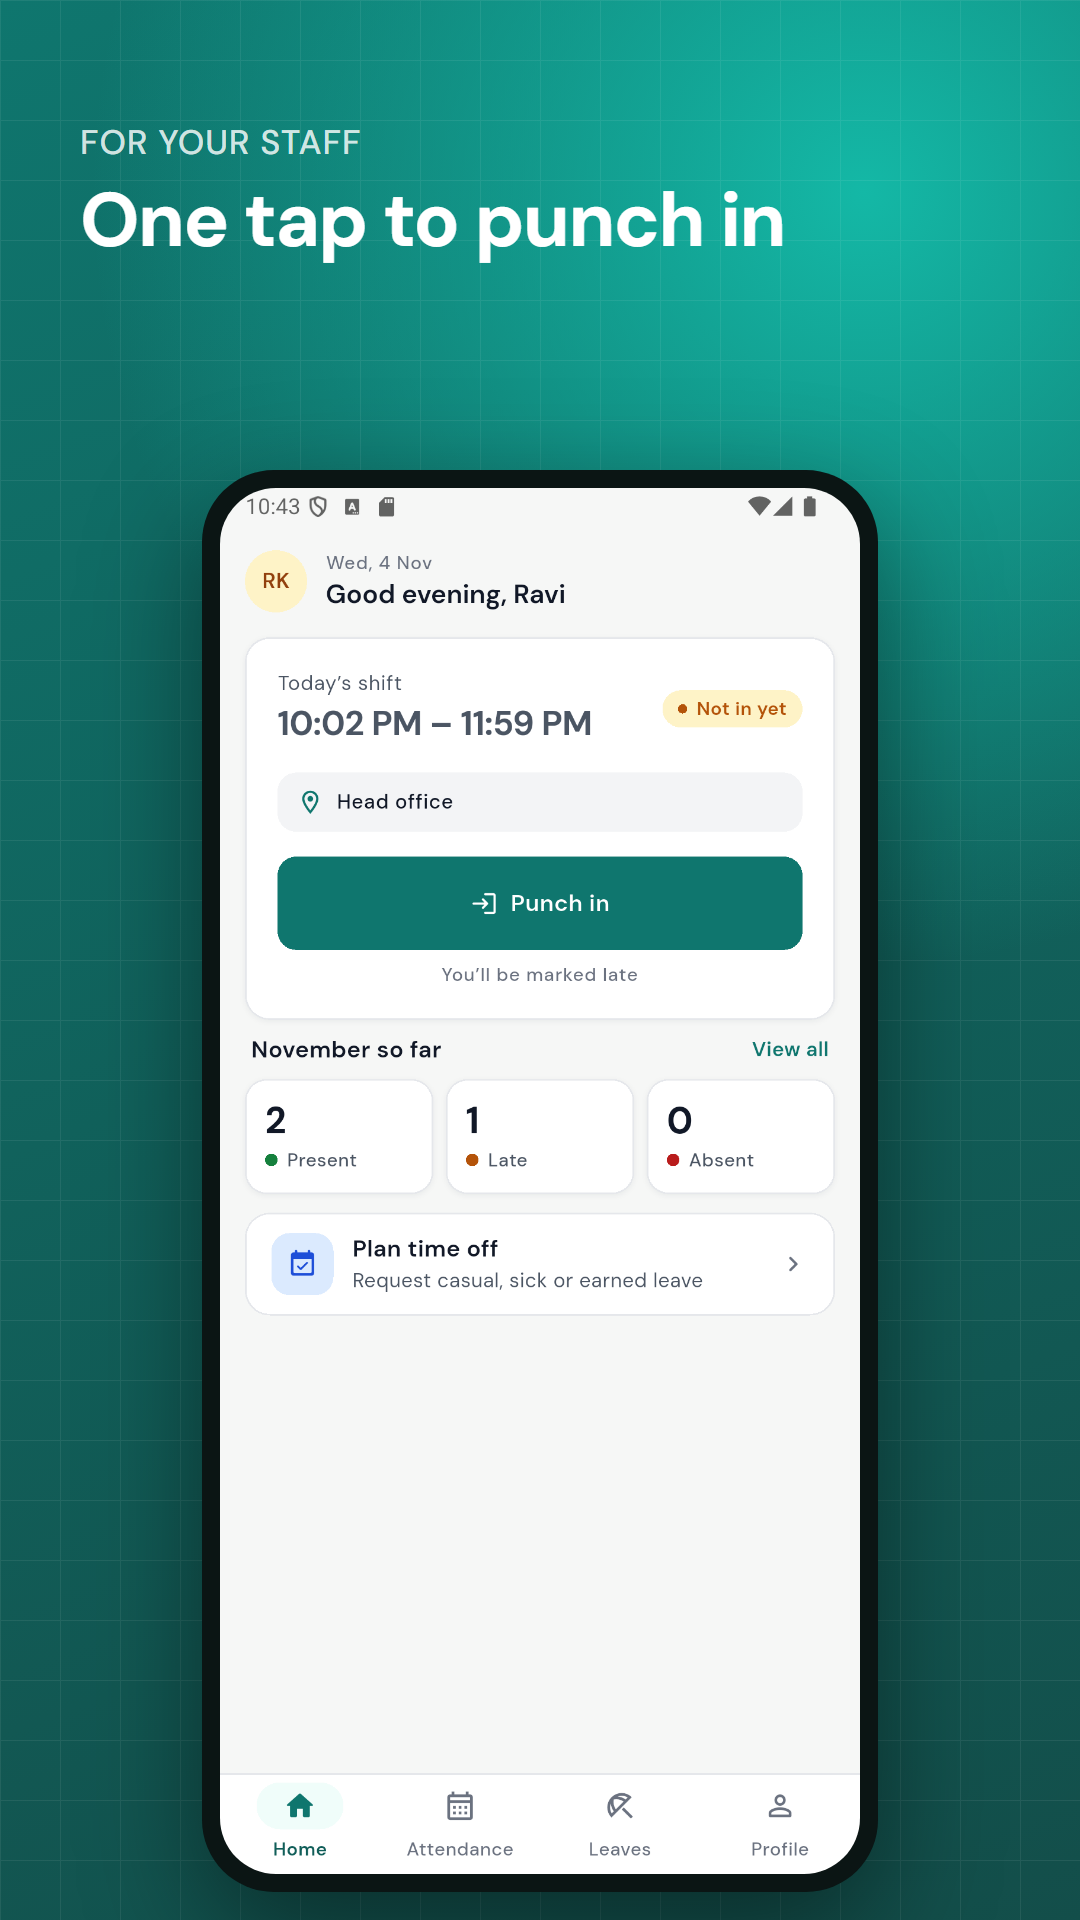
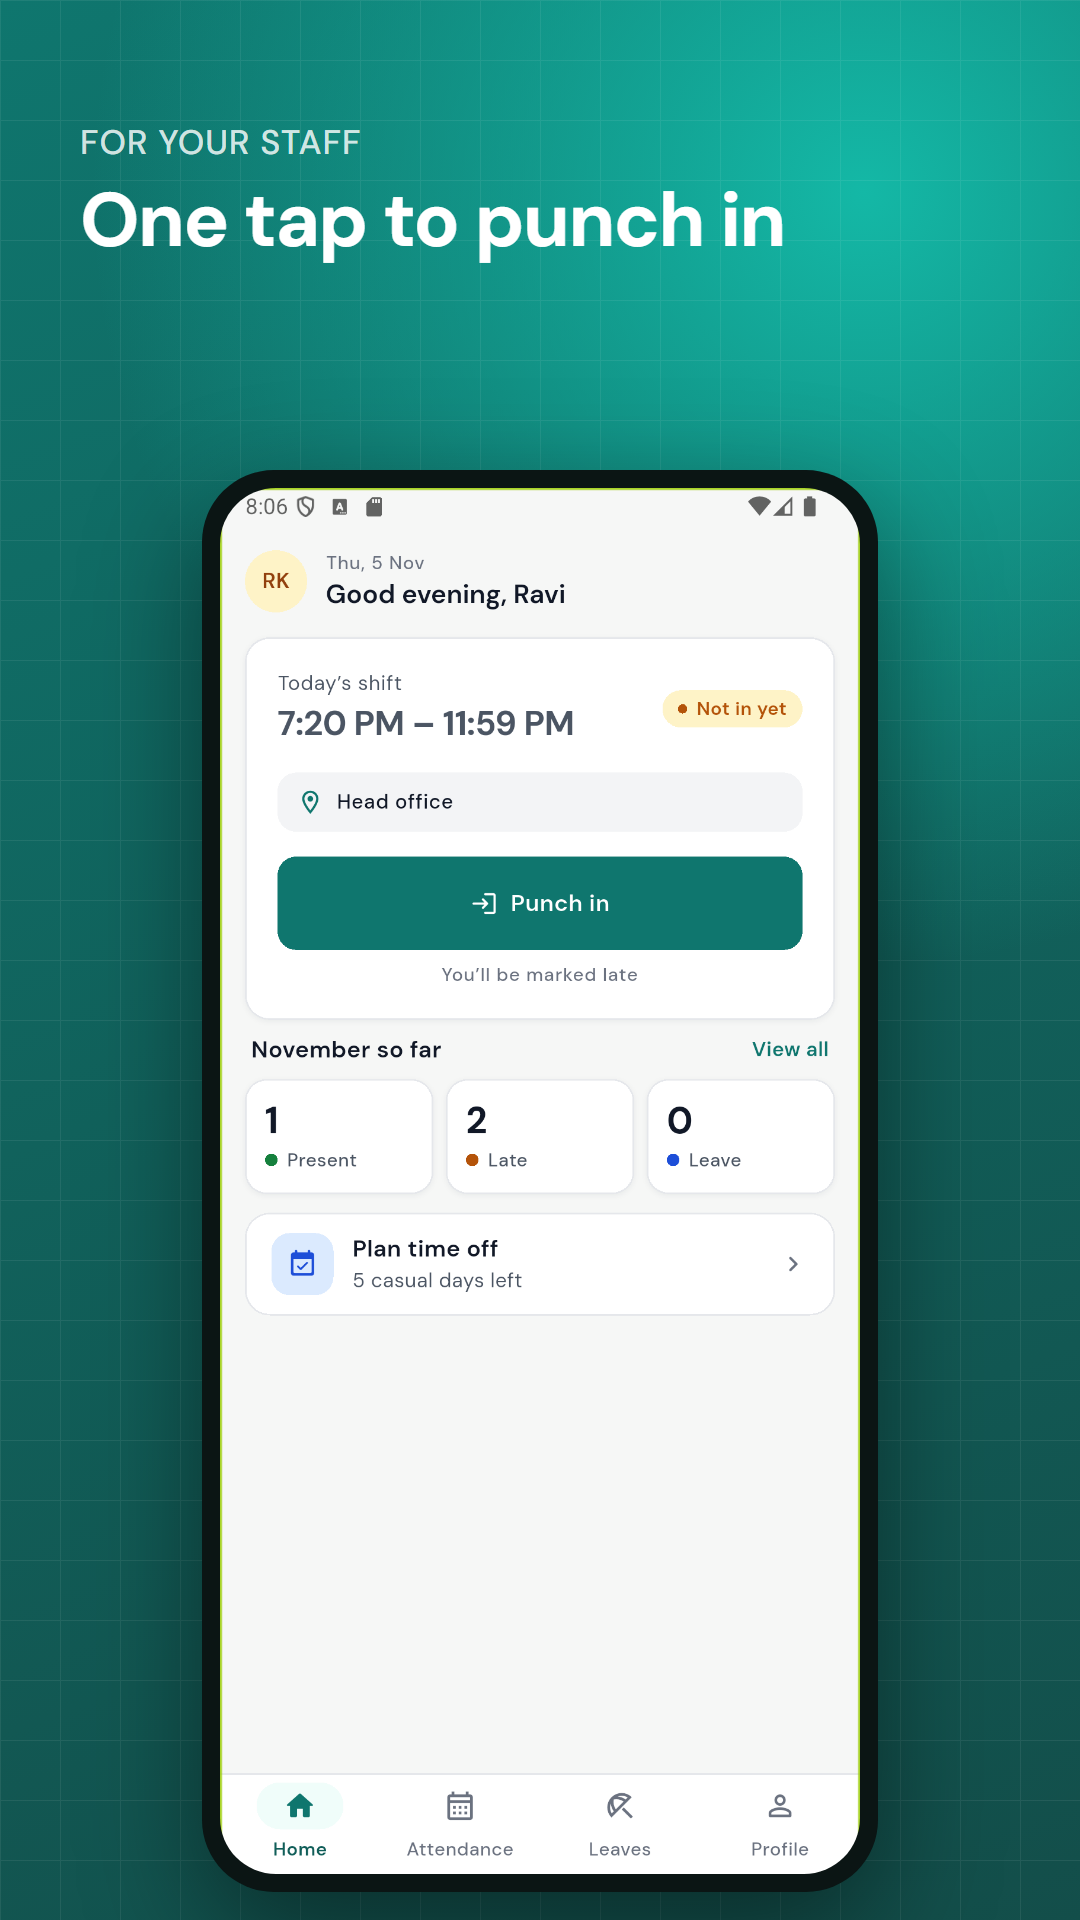
Store screenshots for v2 screens; fix home card after punching
- Re-captured screenshots and the 8 framed Play images (live map,
  flagged logs, leave balances); promo gains the live map and flagging.
- Home shift card follows the live attendance stream, so it flips to
  'In since …' right after a punch instead of staying on 'Punch in'.
- Punch success no longer promises a check-out reminder past midnight,
  which the server never sends.

diff --git a/attendance_app/lib/features/employee/employee_dashboard.dart b/attendance_app/lib/features/employee/employee_dashboard.dart
@@ -197,12 +197,25 @@ class _HomeTabState extends State<_HomeTab> {
               ],
             ),
             const SizedBox(height: AppSpacing.lg),
-            FutureBuilder<AttendanceModel?>(
-              future: _today,
-              builder: (context, snap) => _ShiftCard(
-                loading: snap.connectionState == ConnectionState.waiting,
-                today: snap.data,
-                onPunch: _openPunch,
+            // The live history wins, so the card flips to "checked in" the
+            // moment a punch is saved; the one-off read covers first paint.
+            StreamBuilder<List<AttendanceModel>>(
+              stream: _history,
+              builder: (context, hist) => FutureBuilder<AttendanceModel?>(
+                future: _today,
+                builder: (context, snap) {
+                  final day = AttendanceClock.today();
+                  final live = hist.data
+                      ?.where((h) => h.date == day)
+                      .firstOrNull;
+                  return _ShiftCard(
+                    loading:
+                        !hist.hasData &&
+                        snap.connectionState == ConnectionState.waiting,
+                    today: live ?? snap.data,
+                    onPunch: _openPunch,
+                  );
+                },
               ),
             ),
             SectionHeader(

diff --git a/attendance_app/lib/features/employee/punch_success.dart b/attendance_app/lib/features/employee/punch_success.dart
@@ -47,7 +47,9 @@ class PunchSuccessScreen extends StatelessWidget {
         !user.remindersOff &&
         (prov.company?.shiftReminders ?? true);
     final end = AttendanceClock.parseMinutes(user?.shiftEnd ?? '');
-    final reminderAt = checkedOut || !remindersOn || end == null
+    final reminderAt =
+        // The server reminds 30 min after the shift ends, same day only.
+        checkedOut || !remindersOn || end == null || end + 30 >= 24 * 60
         ? null
         : AttendanceClock.formatMinutes(end + 30);
 

diff --git a/store/src/render_promo.py b/store/src/render_promo.py
@@ -74,10 +74,10 @@ PLAY = [
     ('punch-sheet.png', 'Geofenced', 'Only inside the work zone'),
     ('punch-success.png', 'Tamper-proof', 'Server time, GPS and selfie'),
     ('admin-today.png', 'For owners', 'Who’s in, late or absent today'),
-    ('team.png', 'Every site', 'Your whole team in one place'),
+    ('live-map.png', 'Every site', 'Your whole team on one map'),
+    ('logs.png', 'No proxy punches', 'Flags tries from outside the zone'),
     ('reports.png', 'Month end', 'Reports and payroll export'),
-    ('invite.png', 'Onboard in minutes', 'Invite by QR, code or phone'),
-    ('welcome.png', 'Set up in 5 minutes', 'Attendance your team can trust'),
+    ('my-leaves.png', 'Leave', 'Balances, requests and approvals'),
 ]
 
 SCENES = [
@@ -85,6 +85,8 @@ SCENES = [
     ('punch', phone, ('employee-home.png', 'For your staff', 'Punch in only when you’re at work')),
     ('map', phone, ('punch-sheet.png', 'Geofenced', 'Server time. GPS checked. No proxy punches.')),
     ('admin', phone, ('admin-today.png', 'For owners', 'See who’s in across every site')),
+    ('live', phone, ('live-map.png', 'Live map', 'Every site, every punch, one screen')),
+    ('flag', phone, ('logs.png', 'Caught', 'Tries from outside the zone get flagged')),
     ('team', phone, ('invite.png', 'Onboard in minutes', 'Invite by WhatsApp, SMS or QR')),
     ('reports', phone, ('reports.png', 'Month end', 'Reports and payroll export')),
     ('pricing', pricing, None),
